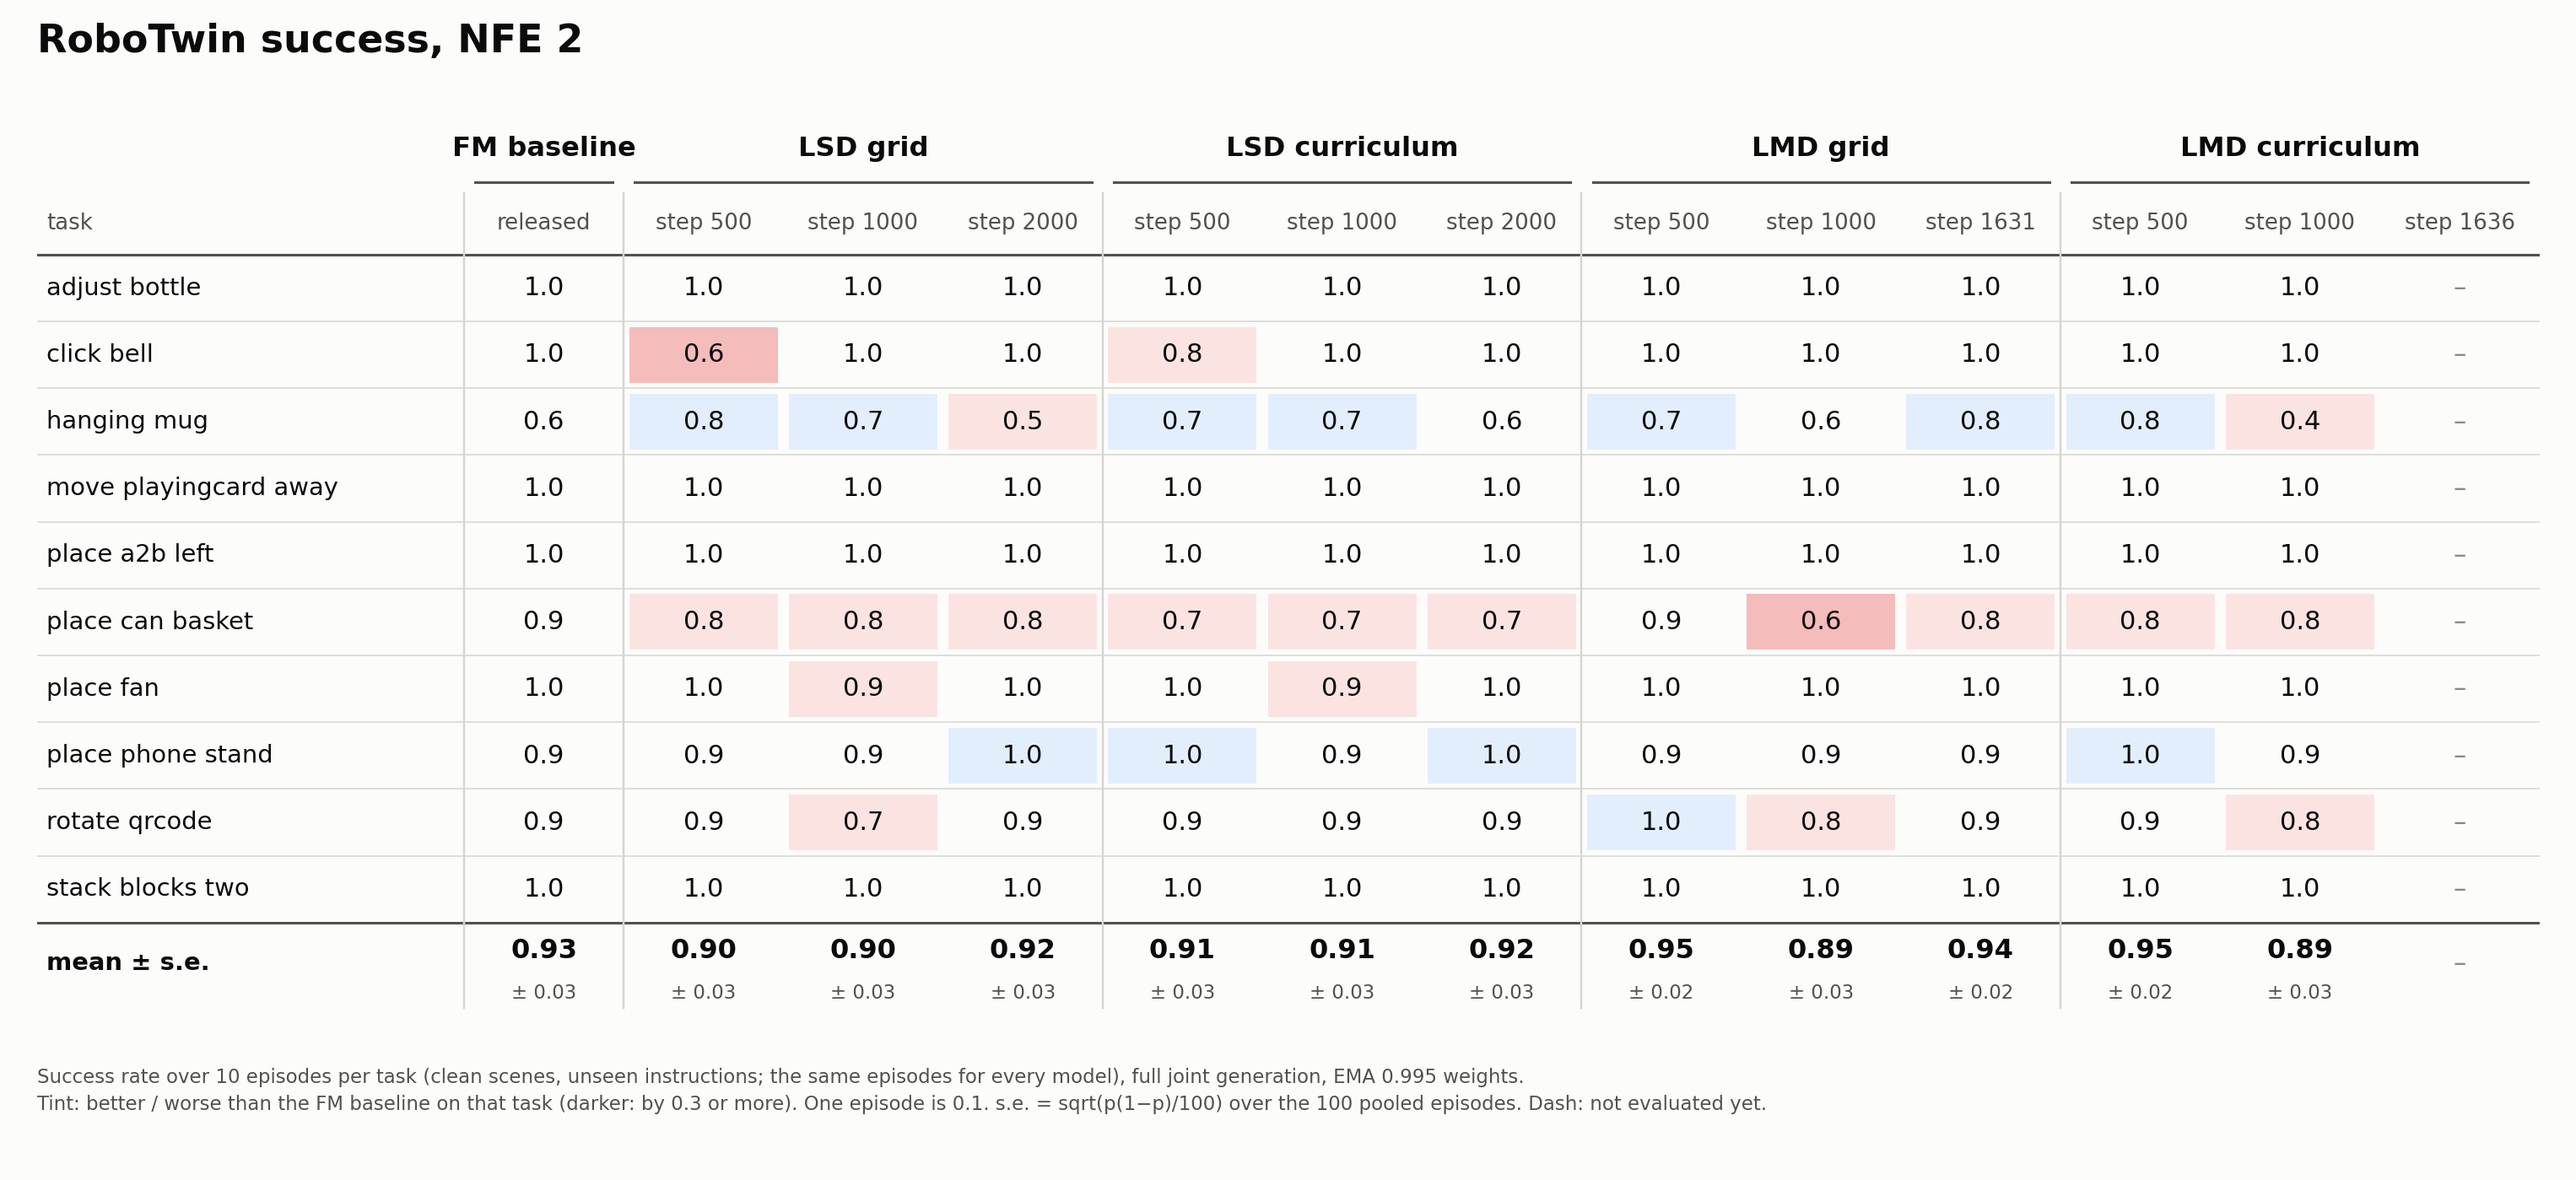
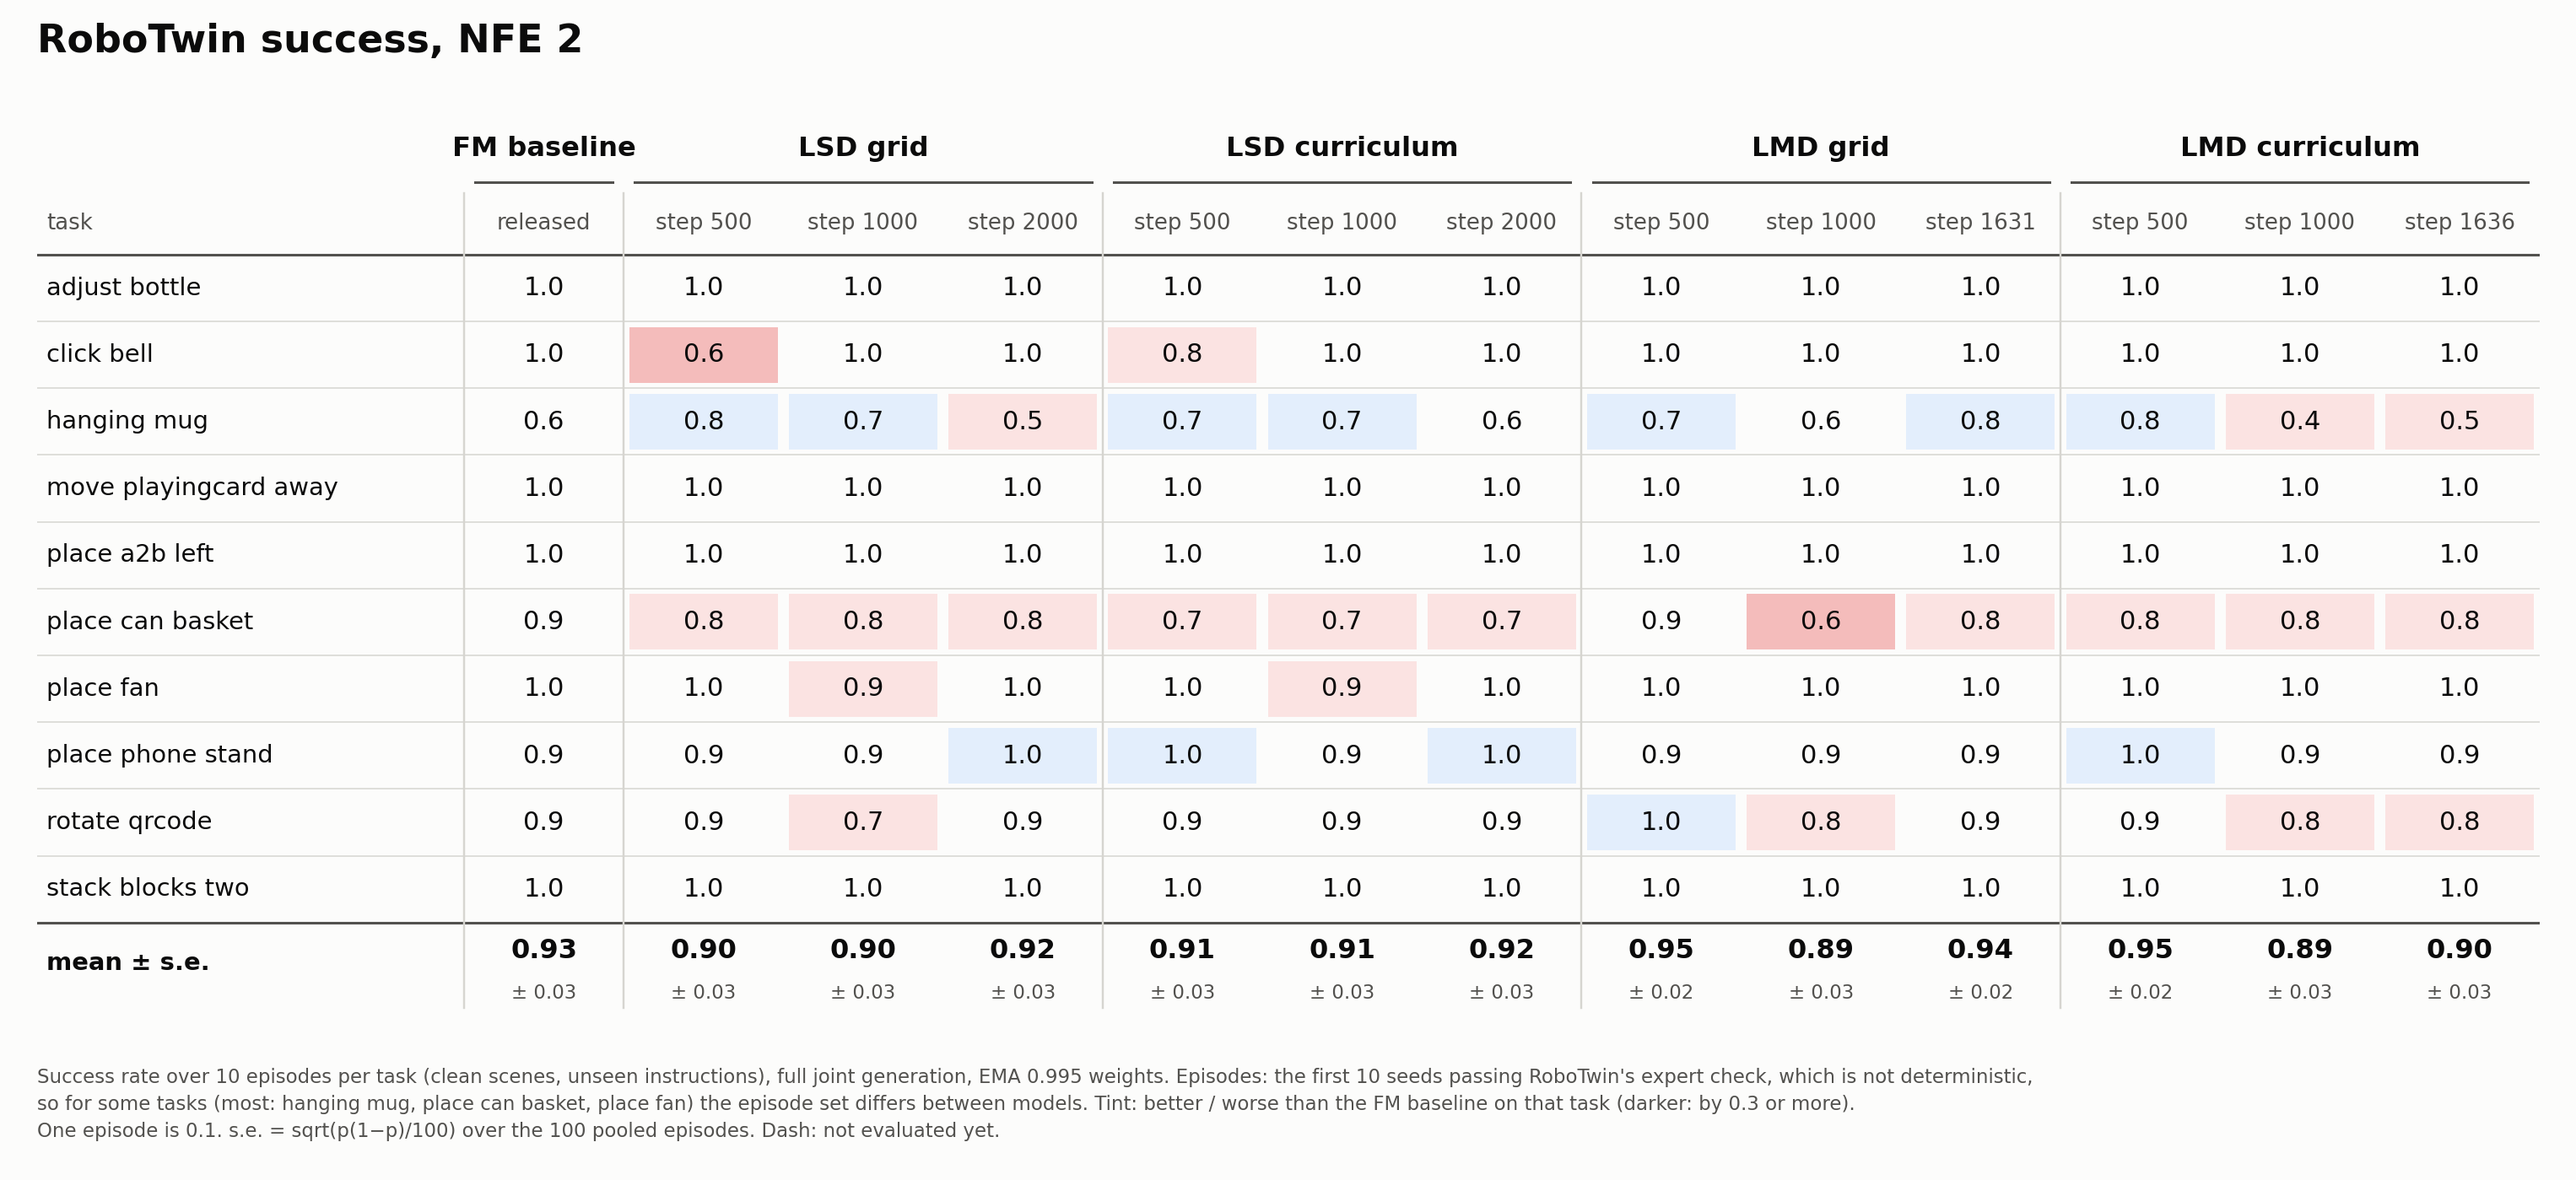
RoboTwin figures: completed LMD-curriculum evals, corrected episode note
- robotwin_table_nfe{1,2,4}: LMD curriculum steps 500, 1000 and 1636 now cover all 10 tasks
  (1636: 0.93 / 0.90 / 0.94 at NFE 1 / 2 / 4, against FM 0.72 / 0.93 / 0.93).
- The tables, the slides grid and the NFE-lines figure said every model saw the same episodes.
  These 10 x 10 runs predate the shared expert cache, and RoboTwin's expert check (cuRobo) is not
  deterministic: over 53 runs, hanging mug had 30 different episode sets, place can basket 40,
  place fan 9. The captions now say so; the 50-task evaluation uses the shared cache.

diff --git a/scripts/plot_robotwin_tables.py b/scripts/plot_robotwin_tables.py
@@ -1,7 +1,8 @@
 """RoboTwin success tables for slides: one PNG per NFE, tasks x checkpoints.
 
-Cells are the task's success rate over 10 episodes (clean scenes, seed 42, same episodes
-for every model), tinted by the difference from the FM baseline on that task (blue
+Cells are the task's success rate over 10 episodes (clean scenes, seed 42: the first 10 seeds
+that pass RoboTwin's expert check; these runs predate the shared expert cache, and cuRobo planning
+is not deterministic, so for some tasks the episode set differs between models), tinted by the difference from the FM baseline on that task (blue
 better, red worse; no tint when equal). The bottom row is the mean over the 10 tasks
 ± its standard error over the 100 pooled episodes, sqrt(p(1-p)/100). A dash is an eval
 that has not run yet; a mean over fewer than 10 tasks is shown muted with the task count.
@@ -98,10 +99,11 @@ def table(nfe, out):
         x += col_w * len(members)
         ax.plot([x, x], [0.62, y + row_h + 0.1], color=RULE, linewidth=0.8)
     ax.plot([task_w, task_w], [0.62, y + row_h + 0.1], color=RULE, linewidth=0.8)
-    note = (f"Success rate over {EPISODES} episodes per task (clean scenes, unseen instructions; the same episodes "
-            "for every model), full joint generation, EMA 0.995 weights.\n"
-            "Tint: better / worse than the FM baseline on that task (darker: by 0.3 or more). One episode is 0.1. "
-            "s.e. = sqrt(p(1−p)/100) over the 100 pooled episodes. Dash: not evaluated yet.")
+    note = (f"Success rate over {EPISODES} episodes per task (clean scenes, unseen instructions), full joint generation, "
+            "EMA 0.995 weights. Episodes: the first 10 seeds passing RoboTwin's expert check, which is not deterministic,\n"
+            "so for some tasks (most: hanging mug, place can basket, place fan) the episode set differs between models. "
+            "Tint: better / worse than the FM baseline on that task (darker: by 0.3 or more).\n"
+            "One episode is 0.1. s.e. = sqrt(p(1−p)/100) over the 100 pooled episodes. Dash: not evaluated yet.")
     ax.text(0, y + row_h + 0.42, note, va="top", fontsize=7.5, color=INK2, linespacing=1.5)
     fig.savefig(f"{out}_nfe{nfe}.png", dpi=220, facecolor=SURFACE)
     plt.close(fig)

diff --git a/scripts/plot_robotwin_eval.py b/scripts/plot_robotwin_eval.py
@@ -169,9 +169,10 @@ def grid_figure(models, nfe, out):
     fig.suptitle(f"RoboTwin per-task success, NFE {nfe}", x=0.012, ha="left", fontsize=14, fontweight="bold",
                  color=INK, y=0.985)
     fig.text(0.012, 0.012, f"Dot and number: observed success in {EPISODES} episodes. Violin: posterior of the "
-             f"task's success rate given that count (Beta(k+1, {EPISODES + 1}−k)); wider = less certain. "
-             "Clean scenes, the same episodes for every model.", fontsize=8.5, color=INK2)
-    fig.subplots_adjust(left=0.05, right=0.99, top=0.84, bottom=0.08, wspace=0.08, hspace=0.32)
+             f"task's success rate given that count (Beta(k+1, {EPISODES + 1}−k)); wider = less certain.\n"
+             "Clean scenes; episodes = the first seeds passing the (non-deterministic) expert check, so they can "
+             "differ between models.", fontsize=8.5, color=INK2, linespacing=1.4)
+    fig.subplots_adjust(left=0.05, right=0.99, top=0.84, bottom=0.095, wspace=0.08, hspace=0.32)
     fig.savefig(f"{out}_nfe{nfe}_grid.png", dpi=200, facecolor=SURFACE)
     return f"{out}_nfe{nfe}_grid.png"
 

diff --git a/scripts/plot_robotwin_nfe_lines.py b/scripts/plot_robotwin_nfe_lines.py
@@ -49,7 +49,7 @@ def figure(models, nfes, out):
                  color=INK, y=0.985)
     fig.text(0.012, 0.012, f"Point: success in {EPISODES} episodes at that NFE; bars: 95% Wilson interval. "
              "Lines are shifted sideways slightly so overlapping points stay visible. "
-             "Clean scenes, the same episodes for every model.", fontsize=8.5, color=INK2)
+             "Clean scenes; episodes = the first seeds passing the (non-deterministic) expert check, so they can differ between models.", fontsize=8.5, color=INK2)
     fig.subplots_adjust(left=0.045, right=0.825, top=0.9, bottom=0.09, wspace=0.08, hspace=0.3)
     fig.savefig(f"{out}.png", dpi=200, facecolor=SURFACE)
     return f"{out}.png"
